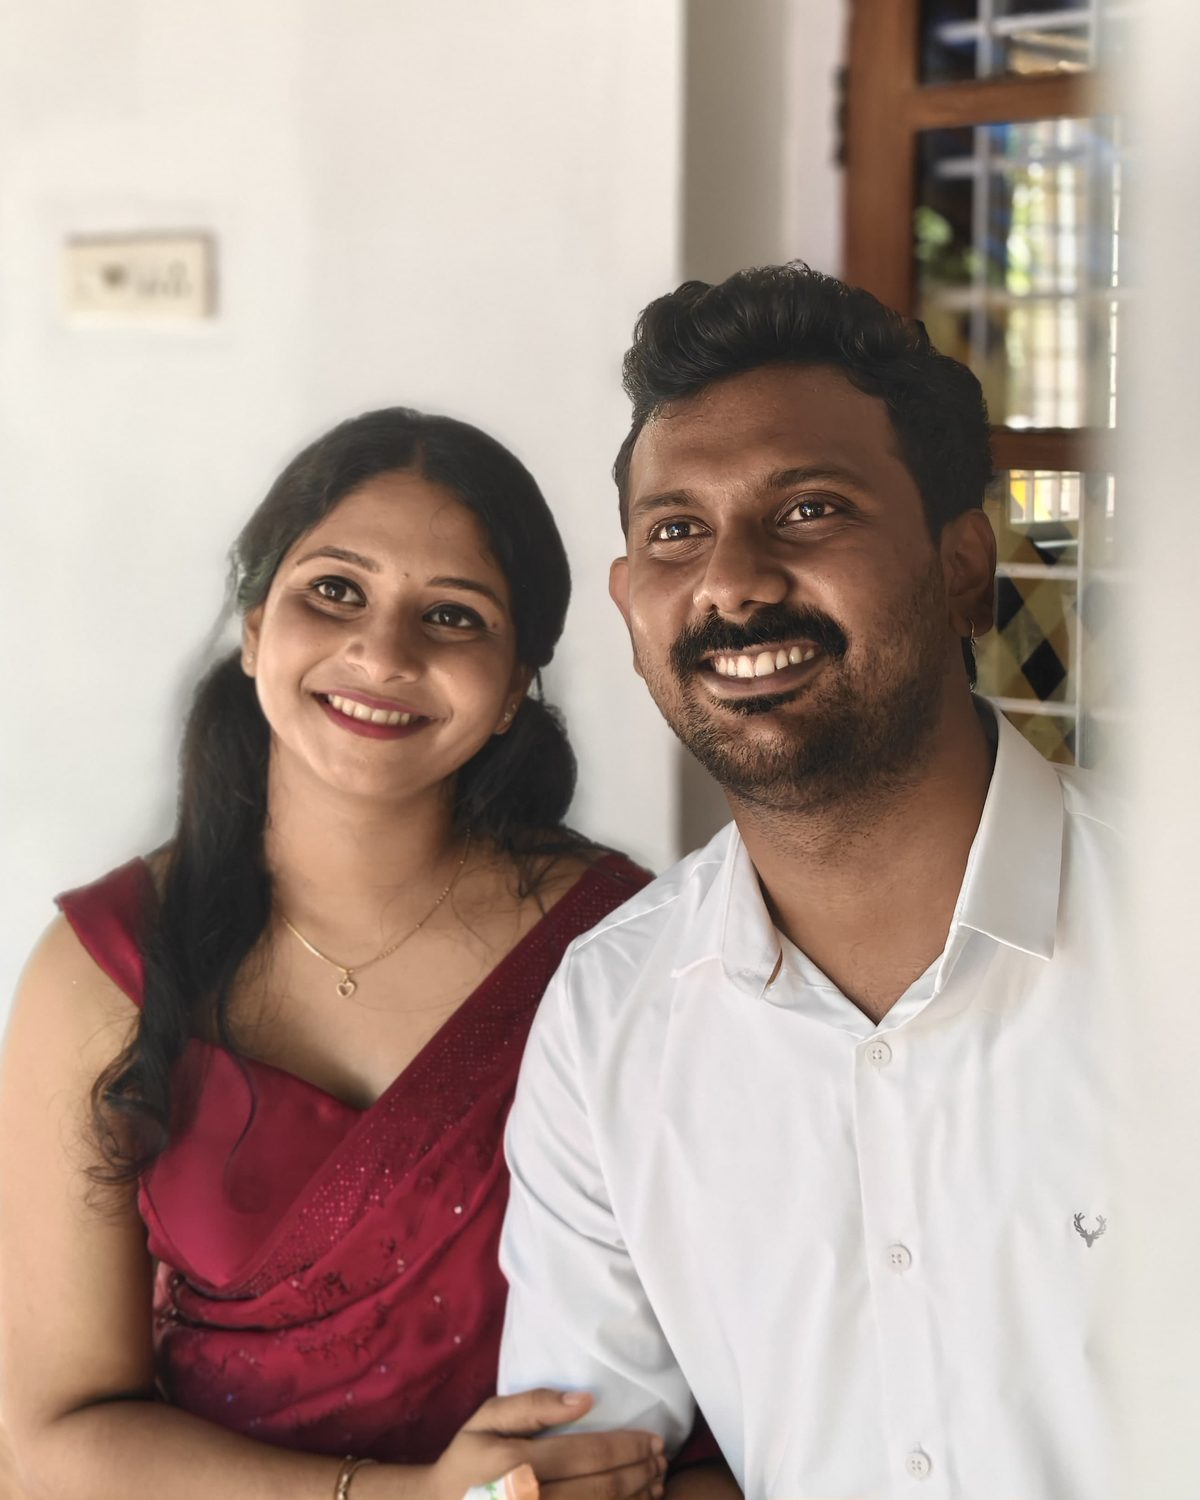
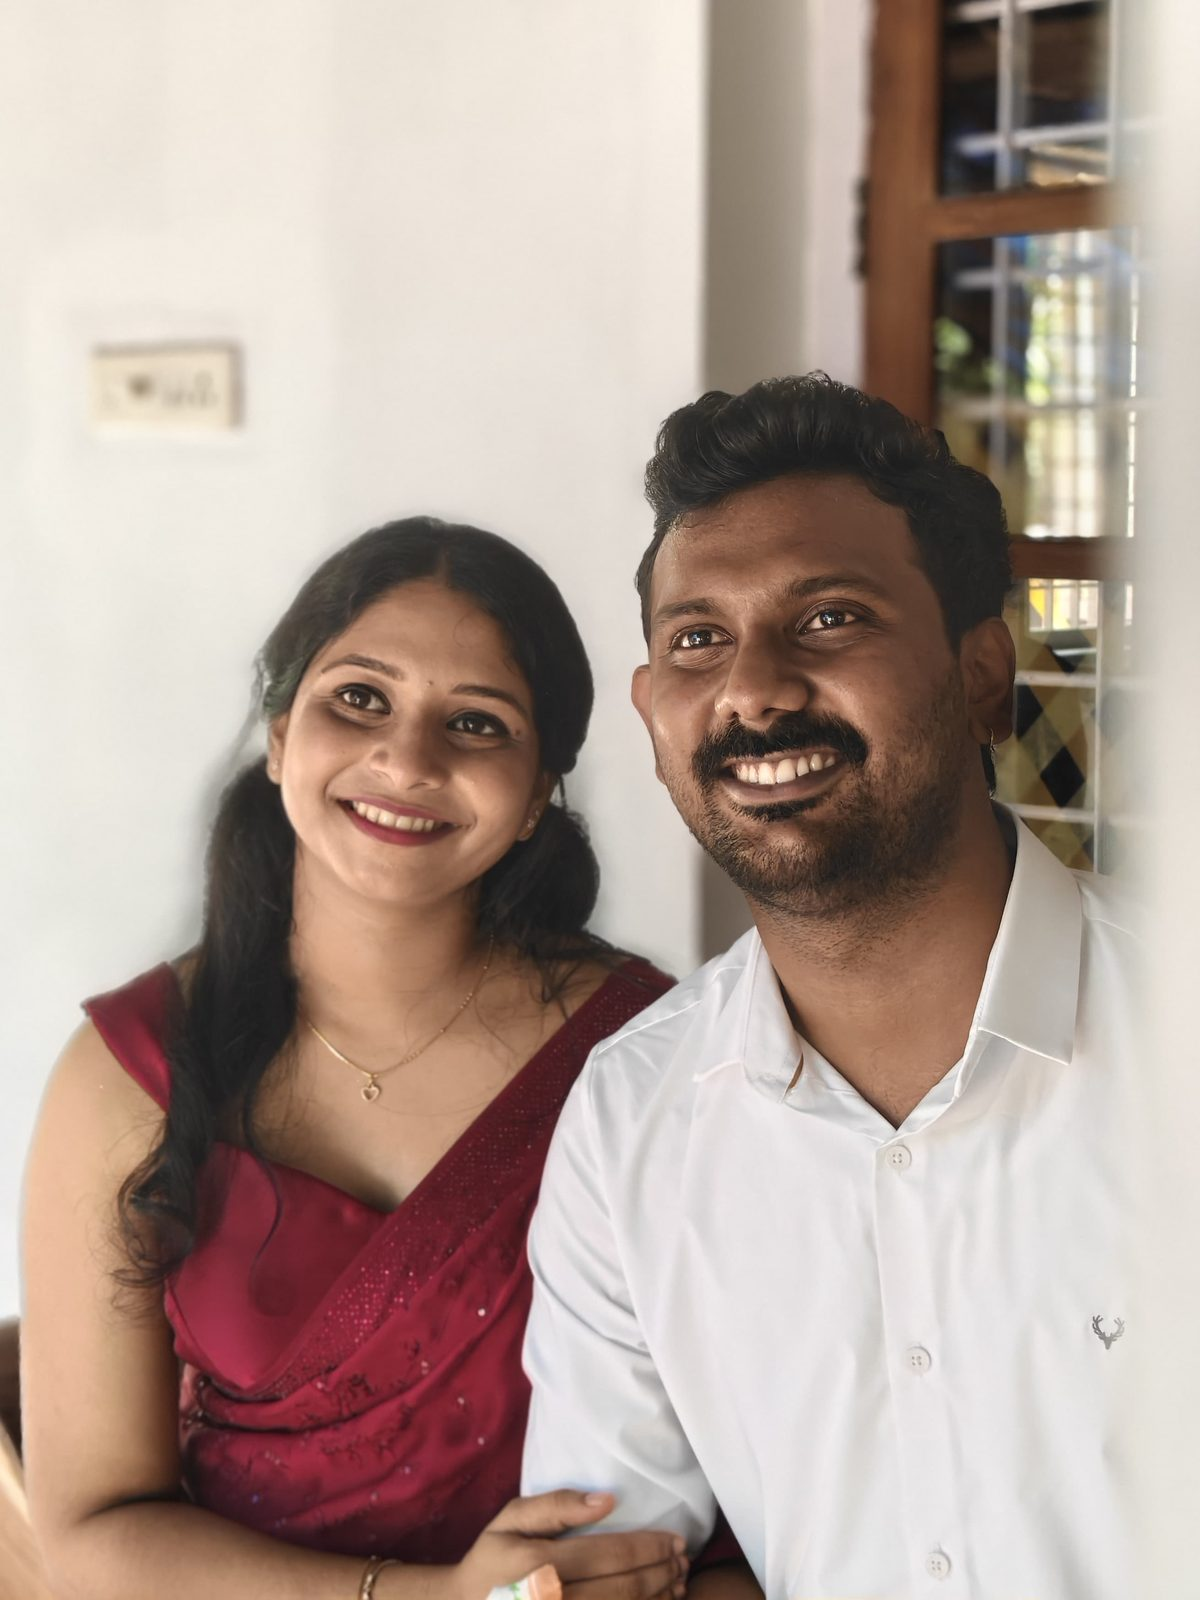
Use couple photo as page background with text above it on phones
New photo, fixed background layout (text on top, photo below on phones;
side by side on wide screens), refreshed share image and README.

diff --git a/css/style.css b/css/style.css
@@ -92,76 +92,99 @@ a { color: var(--rose-deep); }
 .spray--cl { top: -20px; left: -40px; transform: rotate(-12deg); width: clamp(130px, 30vw, 260px); }
 .spray--cr { bottom: -24px; right: -40px; transform: rotate(168deg); width: clamp(130px, 30vw, 260px); }
 
+/* ---------- Couple photo (fixed background) ----------
+   Phones/tablets: the text sits at the top and the photo below it, anchored to
+   the bottom of the screen and fading upward into blush; its height (--photo-h)
+   is set by script.js so it starts just below the date.
+   Wide screens: photo on the right, text on the left. */
+.photo-bg { position: fixed; inset: 0; z-index: -1; overflow: hidden; background: var(--blush); }
+.photo-bg picture { display: contents; }
+.photo-bg__img {
+  position: absolute; bottom: 0; left: 50%; transform: translateX(-50%);
+  height: min(133.333vw, calc(100vh - 24rem));
+  height: min(133.333vw, var(--photo-h, calc(100svh - 24rem)));
+  width: auto; aspect-ratio: 3 / 4; max-width: none; object-fit: cover;
+  -webkit-mask-image: linear-gradient(to right, transparent 0%, #000 5%, #000 95%, transparent 100%),
+                      linear-gradient(to top, #000 0%, #000 84%, transparent 100%);
+  -webkit-mask-composite: source-in;
+  mask-image: linear-gradient(to right, transparent 0%, #000 5%, #000 95%, transparent 100%),
+              linear-gradient(to top, #000 0%, #000 84%, transparent 100%);
+  mask-composite: intersect;
+  animation: fadeIn 1.4s both;
+}
+.photo-bg__blur {
+  display: none; position: absolute; inset: -60px; width: calc(100% + 120px); height: calc(100% + 120px);
+  max-width: none; object-fit: cover; filter: blur(40px) saturate(.9); opacity: .55;
+}
+.photo-bg::after { content: ""; position: absolute; inset: 0; pointer-events: none; }
+.see-through { background: transparent !important; }
+
 /* ---------- Hero ---------- */
 .hero {
   position: relative; overflow: hidden;
   min-height: 100vh; min-height: 100svh;
-  display: flex; flex-direction: column; justify-content: center;
-  padding: clamp(5.5rem, 16vw, 6rem) var(--gutter) 6rem;
-  background:
-    radial-gradient(ellipse 80% 50% at 50% 0%, rgba(255, 255, 255, .9), transparent 70%),
-    linear-gradient(180deg, var(--blush) 0%, #FBF1EF 55%, var(--ivory) 100%);
+  display: flex; flex-direction: column; justify-content: flex-start; align-items: center;
+  padding: clamp(3.2rem, 11vw, 4.4rem) var(--gutter) max(14px, env(safe-area-inset-bottom));
   text-align: center;
 }
-.hero__inner { position: relative; z-index: 1; width: 100%; max-width: var(--max); margin: 0 auto; display: flex; flex-direction: column; align-items: center; gap: 2.4rem; }
-.hero__text { display: flex; flex-direction: column; align-items: center; }
+.hero__top, .hero__bottom {
+  position: relative; z-index: 1; display: flex; flex-direction: column; align-items: center;
+  text-shadow: 0 0 14px rgba(255, 255, 255, .7);
+}
+.hero .spray { width: clamp(120px, 30vw, 320px); }
+.hero .spray--tl { top: -8px; left: -20px; transform: rotate(-8deg); }
+.hero .spray--tr { top: -8px; right: -20px; transform: scaleX(-1) rotate(-8deg); }
 
-.hero__eyebrow { animation: fadeUp 1s .2s var(--ease) both; }
+.hero__eyebrow { margin-bottom: .3rem; animation: fadeUp 1s .2s var(--ease) both; }
 .hero__names {
   font-family: var(--font-script); font-weight: 400; color: var(--mauve);
-  font-size: clamp(3.6rem, 17vw, 6.2rem); line-height: 1.1;
+  font-size: clamp(3rem, 14vw, 6.2rem); line-height: 1.05;
   display: flex; flex-direction: column; align-items: center;
 }
 .hero__name { display: block; animation: nameReveal 1.3s var(--ease) both; }
 .hero__name:last-child { animation-delay: .5s; }
 .hero__amp { color: var(--rose-amp); animation: fadeIn 1s .35s both; }
 .hero__lede {
-  font-family: var(--font-head); font-style: italic; font-size: clamp(1.2rem, 4.8vw, 1.5rem);
-  color: var(--ink); margin-top: .7rem; line-height: 1.45; animation: fadeUp 1s .8s var(--ease) both;
+  font-family: var(--font-head); font-style: italic; font-size: clamp(1.15rem, 4.6vw, 1.5rem);
+  color: var(--ink); margin-top: .5rem; line-height: 1.4; animation: fadeUp 1s .8s var(--ease) both;
 }
-.hero__divider { margin-top: 1.1rem; animation: fadeIn 1.2s 1s both; }
+.hero__divider { margin-top: .7rem; height: 34px; animation: fadeIn 1.2s 1s both; }
 .hero__date {
-  margin-top: 1rem; font-size: .8rem; font-weight: 500; letter-spacing: .28em; text-transform: uppercase;
+  margin-top: .7rem; font-size: .8rem; font-weight: 500; letter-spacing: .28em; text-transform: uppercase;
   color: var(--rose-deep); animation: fadeIn 1.2s 1.15s both;
 }
-.hero__time { display: block; margin-top: .3rem; }
+.hero__time { display: block; margin-top: .2rem; }
 .hero__sep { display: none; }
 @media (min-width: 520px) {
   .hero__time { display: inline; margin-top: 0; }
   .hero__sep { display: inline; }
 }
 
-/* Arched photo with a fine champagne outline and flowers at its base */
-.arch { position: relative; width: min(82vw, 380px); animation: fadeUp 1.2s .4s var(--ease) both; }
-.arch picture { display: block; }
-.arch__img {
-  width: 100%; height: auto; aspect-ratio: 4 / 5; object-fit: cover; object-position: 50% 40%;
-  border-radius: 1000px 1000px 14px 14px;
-  box-shadow: 0 30px 60px -34px rgba(126, 67, 87, .55);
-}
-.arch__line {
-  position: absolute; inset: -11px; border: 1px solid var(--champagne);
-  border-radius: 1000px 1000px 20px 20px; pointer-events: none;
-}
-.arch__flowers { position: absolute; width: 62%; height: auto; aspect-ratio: 240 / 200; bottom: -16%; pointer-events: none; overflow: visible; }
-.arch__flowers--l { left: -24%; transform: rotate(-4deg); }
-.arch__flowers--r { right: -24%; transform: scaleX(-1) rotate(-14deg); }
-
 .scroll-cue {
-  position: absolute; z-index: 1; bottom: max(18px, env(safe-area-inset-bottom)); left: 50%; transform: translateX(-50%);
-  display: flex; flex-direction: column; align-items: center; gap: .4rem;
+  margin-top: 1rem;
+  display: flex; flex-direction: column; align-items: center; gap: .3rem;
   color: var(--sage-deep); text-decoration: none; font-size: .64rem; font-weight: 500; letter-spacing: .3em; text-transform: uppercase;
   min-width: 44px; padding: 4px; animation: fadeIn 1s 1.6s both;
 }
-.scroll-cue__line { width: 1px; height: 34px; background: linear-gradient(var(--rose), transparent); position: relative; overflow: hidden; }
+.scroll-cue__line { width: 1px; height: 28px; background: linear-gradient(var(--rose), transparent); position: relative; overflow: hidden; }
 .scroll-cue__line::after { content: ""; position: absolute; left: 0; top: -40%; width: 1px; height: 40%; background: var(--rose-deep); animation: scrollLine 2.2s ease-in-out infinite; }
 
-@media (min-width: 900px) {
-  .hero { padding: 6rem 2rem; }
-  .hero__inner { flex-direction: row; justify-content: center; gap: clamp(3rem, 7vw, 6.5rem); }
-  .hero__text { flex: 1 1 0; max-width: 520px; }
+/* Wide screens: photo on the right with feathered edges, text on the left */
+@media (min-width: 900px) and (min-aspect-ratio: 4/3) {
+  .photo-bg__blur { display: block; }
+  .photo-bg__img {
+    inset: 0 4vw 0 auto; left: auto; bottom: 0; transform: none; width: auto; height: 100%;
+    -webkit-mask-image: linear-gradient(to right, transparent 0%, #000 18%, #000 88%, transparent 100%),
+                        linear-gradient(to bottom, transparent 0%, #000 8%, #000 90%, transparent 100%);
+    mask-image: linear-gradient(to right, transparent 0%, #000 18%, #000 88%, transparent 100%),
+                linear-gradient(to bottom, transparent 0%, #000 8%, #000 90%, transparent 100%);
+  }
+  .photo-bg::after { background: linear-gradient(90deg, var(--blush) 0%, rgba(248, 232, 230, .92) 38%, rgba(248, 232, 230, 0) 62%); }
+  .hero { justify-content: center; align-items: flex-start; padding: 5rem 2rem; }
+  .hero__top, .hero__bottom { width: min(46vw, 640px); margin-left: 5vw; }
   .hero__names { font-size: clamp(4.8rem, 7.4vw, 6.8rem); }
-  .arch { width: min(36vw, 420px); flex: none; }
+  .hero .spray--tr { top: auto; right: auto; bottom: -20px; left: -20px; transform: rotate(-80deg); }
+  .closing .container { margin-left: 5vw; }
 }
 
 /* ---------- Save the date ---------- */
@@ -221,11 +244,14 @@ a { color: var(--rose-deep); }
 .btn:active { transform: translateY(0); }
 
 /* ---------- Closing ---------- */
-.closing {
-  background:
-    radial-gradient(ellipse 60% 50% at 50% 50%, rgba(248, 232, 230, .8), transparent 75%),
-    var(--ivory);
+.closing.see-through { padding: clamp(7rem, 32vh, 13rem) 0; }
+.closing__panel {
+  overflow: visible; padding-top: 3rem; padding-bottom: 2.6rem; width: calc(100% - 2 * var(--gutter));
+  background: rgba(255, 251, 248, .84); border-radius: var(--radius);
+  -webkit-backdrop-filter: blur(8px); backdrop-filter: blur(8px);
+  box-shadow: 0 30px 60px -38px rgba(126, 67, 87, .45);
 }
+.closing__panel > :not(.spray) { position: relative; z-index: 1; }
 .closing__text { font-family: var(--font-head); font-style: italic; font-size: clamp(1.3rem, 5vw, 1.7rem); line-height: 1.45; color: var(--ink); }
 .closing__names { font-family: var(--font-script); font-weight: 400; color: var(--mauve); font-size: clamp(3.2rem, 14vw, 5rem); margin: 1.2rem 0 .6rem; line-height: 1.2; }
 .closing__names span { color: var(--rose-amp); }

diff --git a/index.html b/index.html
@@ -33,11 +33,11 @@
   <link rel="apple-touch-icon" href="assets/icons/apple-touch-icon.png">
   <link rel="manifest" href="site.webmanifest">
 
-  <link rel="preload" as="image" type="image/webp" href="assets/images/couple-720.webp" imagesrcset="assets/images/couple-720.webp 720w, assets/images/couple-1200.webp 1200w" imagesizes="(min-width: 900px) 40vw, 82vw" fetchpriority="high">
+  <link rel="preload" as="image" type="image/webp" href="assets/images/couple-720.webp" imagesrcset="assets/images/couple-720.webp 720w, assets/images/couple-1200.webp 1200w" imagesizes="(min-width: 900px) and (min-aspect-ratio: 4/3) 75vh, (min-width: 600px) 60vh, 100vw" fetchpriority="high">
   <link rel="preconnect" href="https://fonts.googleapis.com">
   <link rel="preconnect" href="https://fonts.gstatic.com" crossorigin>
   <link rel="stylesheet" href="https://fonts.googleapis.com/css2?family=Cormorant+Garamond:ital,wght@0,400;0,500;1,400;1,500&family=Allura&family=Montserrat:wght@300;400;500&display=swap">
-  <link rel="stylesheet" href="css/style.css?v=3">
+  <link rel="stylesheet" href="css/style.css?v=9">
 
   <script type="application/ld+json">
   {
@@ -69,6 +69,15 @@
 </head>
 <body>
   <a class="skip-link" href="#main">Skip to the invitation</a>
+
+  <!-- ===== Couple photo: fixed page background ===== -->
+  <div class="photo-bg">
+    <img class="photo-bg__blur" src="assets/images/couple-blur.jpg" width="240" height="320" alt="" aria-hidden="true" decoding="async">
+    <picture>
+      <source type="image/webp" srcset="assets/images/couple-720.webp 720w, assets/images/couple-1200.webp 1200w" sizes="(min-width: 900px) and (min-aspect-ratio: 4/3) 75vh, (min-width: 600px) 60vh, 100vw">
+      <img class="photo-bg__img" src="assets/images/couple-1200.jpg" width="1200" height="1600" alt="Sooraj and Sivakami sitting together and smiling" fetchpriority="high" decoding="async">
+    </picture>
+  </div>
 
   <!-- ===== Floral sprite (decorative, reused via <use>) ===== -->
   <svg class="sprite" aria-hidden="true" focusable="false" width="0" height="0">
@@ -143,37 +152,27 @@
   <main id="main">
 
     <!-- ===== Hero ===== -->
-    <section class="hero" id="top" aria-labelledby="hero-title">
+    <section class="hero see-through" id="top" aria-labelledby="hero-title">
       <svg class="spray spray--tl" aria-hidden="true" focusable="false"><use href="#f-spray"/></svg>
-      <svg class="spray spray--br" aria-hidden="true" focusable="false"><use href="#f-spray"/></svg>
+      <svg class="spray spray--tr" aria-hidden="true" focusable="false"><use href="#f-spray"/></svg>
 
-      <div class="hero__inner">
-        <div class="hero__text">
-          <p class="eyebrow hero__eyebrow">Together with their families</p>
-          <h1 class="hero__names" id="hero-title">
-            <span class="hero__name">Sooraj <span class="hero__amp" aria-label="and">&amp;</span></span>
-            <span class="hero__name">Sivakami</span>
-          </h1>
-          <p class="hero__lede">request the pleasure of your company<br> at their wedding reception</p>
-          <svg class="divider hero__divider" aria-hidden="true" focusable="false"><use href="#f-divider"/></svg>
-          <p class="hero__date">Sunday &middot; 31 January 2027 <span class="hero__time"><span class="hero__sep" aria-hidden="true">&middot; </span>6:00 PM</span></p>
-        </div>
-
-        <figure class="arch">
-          <span class="arch__line" aria-hidden="true"></span>
-          <picture>
-            <source type="image/webp" srcset="assets/images/couple-720.webp 720w, assets/images/couple-1200.webp 1200w" sizes="(min-width: 900px) 40vw, 82vw">
-            <img class="arch__img" src="assets/images/couple-1200.jpg" width="1200" height="1500" alt="Sooraj and Sivakami smiling together" fetchpriority="high" decoding="async">
-          </picture>
-          <svg class="arch__flowers arch__flowers--l" aria-hidden="true" focusable="false"><use href="#f-spray"/></svg>
-          <svg class="arch__flowers arch__flowers--r" aria-hidden="true" focusable="false"><use href="#f-spray"/></svg>
-        </figure>
+      <div class="hero__top">
+        <p class="eyebrow hero__eyebrow">Together with their families</p>
+        <h1 class="hero__names" id="hero-title">
+          <span class="hero__name">Sooraj <span class="hero__amp" aria-label="and">&amp;</span></span>
+          <span class="hero__name">Sivakami</span>
+        </h1>
       </div>
 
-      <a href="#date" class="scroll-cue">
-        <span class="scroll-cue__text">Scroll</span>
-        <span class="scroll-cue__line" aria-hidden="true"></span>
-      </a>
+      <div class="hero__bottom">
+        <p class="hero__lede">request the pleasure of your company<br> at their wedding reception</p>
+        <svg class="divider hero__divider" aria-hidden="true" focusable="false"><use href="#f-divider"/></svg>
+        <p class="hero__date">Sunday &middot; 31 January 2027 <span class="hero__time"><span class="hero__sep" aria-hidden="true">&middot; </span>6:00 PM</span></p>
+        <a href="#date" class="scroll-cue">
+          <span class="scroll-cue__text">Scroll</span>
+          <span class="scroll-cue__line" aria-hidden="true"></span>
+        </a>
+      </div>
     </section>
 
     <!-- ===== Save the date ===== -->
@@ -228,10 +227,10 @@
     </section>
 
     <!-- ===== Closing ===== -->
-    <section class="section closing" id="closing" aria-labelledby="closing-title">
-      <svg class="spray spray--cl" aria-hidden="true" focusable="false"><use href="#f-spray"/></svg>
-      <svg class="spray spray--cr" aria-hidden="true" focusable="false"><use href="#f-spray"/></svg>
-      <div class="container container--narrow">
+    <section class="section closing see-through" id="closing" aria-labelledby="closing-title">
+      <div class="container container--narrow closing__panel">
+        <svg class="spray spray--cl" aria-hidden="true" focusable="false"><use href="#f-spray"/></svg>
+        <svg class="spray spray--cr" aria-hidden="true" focusable="false"><use href="#f-spray"/></svg>
         <p class="closing__text reveal">Your presence and blessings will make our celebration even more special.</p>
         <h2 class="closing__names reveal" id="closing-title">Sooraj <span aria-label="and">&amp;</span> Sivakami</h2>
         <p class="closing__note reveal">We request your gracious presence and wishes only.</p>
@@ -257,6 +256,6 @@
     <svg class="icon" aria-hidden="true" focusable="false"><use href="#i-arrow-up"/></svg>
   </a>
 
-  <script src="js/script.js?v=2" defer></script>
+  <script src="js/script.js?v=4" defer></script>
 </body>
 </html>

diff --git a/js/script.js b/js/script.js
@@ -32,6 +32,25 @@
   var reduceMotion = window.matchMedia && window.matchMedia('(prefers-reduced-motion: reduce)').matches;
 
   /* ------------------------------------------------------------------------
+     BACKGROUND PHOTO HEIGHT (phones / portrait)
+     The photo sits below the hero text, anchored to the bottom of the screen,
+     so nothing covers the couple. Its height is the space left under the
+     text, which varies with screen size and font loading, so measure it.
+     ------------------------------------------------------------------------ */
+  var wideQuery = window.matchMedia('(min-width: 900px) and (min-aspect-ratio: 4/3)');
+  var heroText = document.querySelector('.hero__bottom');
+  function fitPhoto() {
+    var root = document.documentElement;
+    if (!heroText || wideQuery.matches) { root.style.removeProperty('--photo-h'); return; }
+    var bottom = heroText.getBoundingClientRect().bottom + (window.scrollY || window.pageYOffset);
+    root.style.setProperty('--photo-h', Math.max(260, Math.round(window.innerHeight - bottom + 24)) + 'px');
+  }
+  fitPhoto();
+  window.addEventListener('resize', fitPhoto);
+  window.addEventListener('load', fitPhoto);
+  if (document.fonts && document.fonts.ready) document.fonts.ready.then(fitPhoto);
+
+  /* ------------------------------------------------------------------------
      BACK-TO-TOP
      ------------------------------------------------------------------------ */
   var backToTop = document.getElementById('backToTop');

diff --git a/README.md b/README.md
@@ -17,7 +17,7 @@ reception-invitation/
 
 ## Page sections
 
-1. Opening — names, "request the pleasure of your company at their wedding reception", date/time, couple photo in a floral arch
+1. Opening — names, "request the pleasure of your company at their wedding reception", date/time over the couple photo, which is a fixed page background (it shows again behind the closing panel)
 2. Save the date — January · Sunday | 31 | 6:00 PM · 2027
 3. Reception details — date, time, venue, Get Directions (Google Maps)
 4. Closing — message, names, countdown to 6:00 PM IST
@@ -73,7 +73,7 @@ The page is indexable by default. To keep it out of Google while still sharing b
 - **Colours and fonts**: CSS variables at the top of `css/style.css` (blush, rose, mauve, sage). Fonts: Allura (names and script headings), Cormorant Garamond, Montserrat.
 - **Flowers**: all florals are inline SVG symbols in the sprite at the top of `index.html` (`f-rose`, `f-rose-peach`, `f-blossom`, `f-bud`, `f-leaf`, `f-euca`, composed into `f-spray` and `f-divider`). No image downloads.
 - **Text**: plain HTML in `index.html`; countdown messages in `js/script.js`.
-- **Couple photo**: shown in the arch. Replace `assets/images/couple-720.webp` (720×900), `couple-1200.webp` and `couple-1200.jpg` (1200×1500) at the same names, keeping a 4:5 crop.
+- **Couple photo**: a fixed background (`.photo-bg`). On phones/tablets the text sits at the top and the photo below it, anchored to the bottom of the screen and fading upward into blush; `js/script.js` sets `--photo-h` so it starts just below the date. On wide screens it sits on the right with feathered edges over a blurred fill. Replace `assets/images/couple-720.webp` (720×960), `couple-1200.webp` and `couple-1200.jpg` (1200×1600) and `couple-blur.jpg` (240×320, blurred) at the same names, keeping a 3:4 crop.
 - **Share image / icons**: `assets/images/og-image.jpg` (1200×630) and `assets/icons/*` use the same photo and rose artwork; replace at the same names.
 - After changing CSS/JS, bump the `?v=` number on their links in `index.html` so browsers fetch the new files.
 
